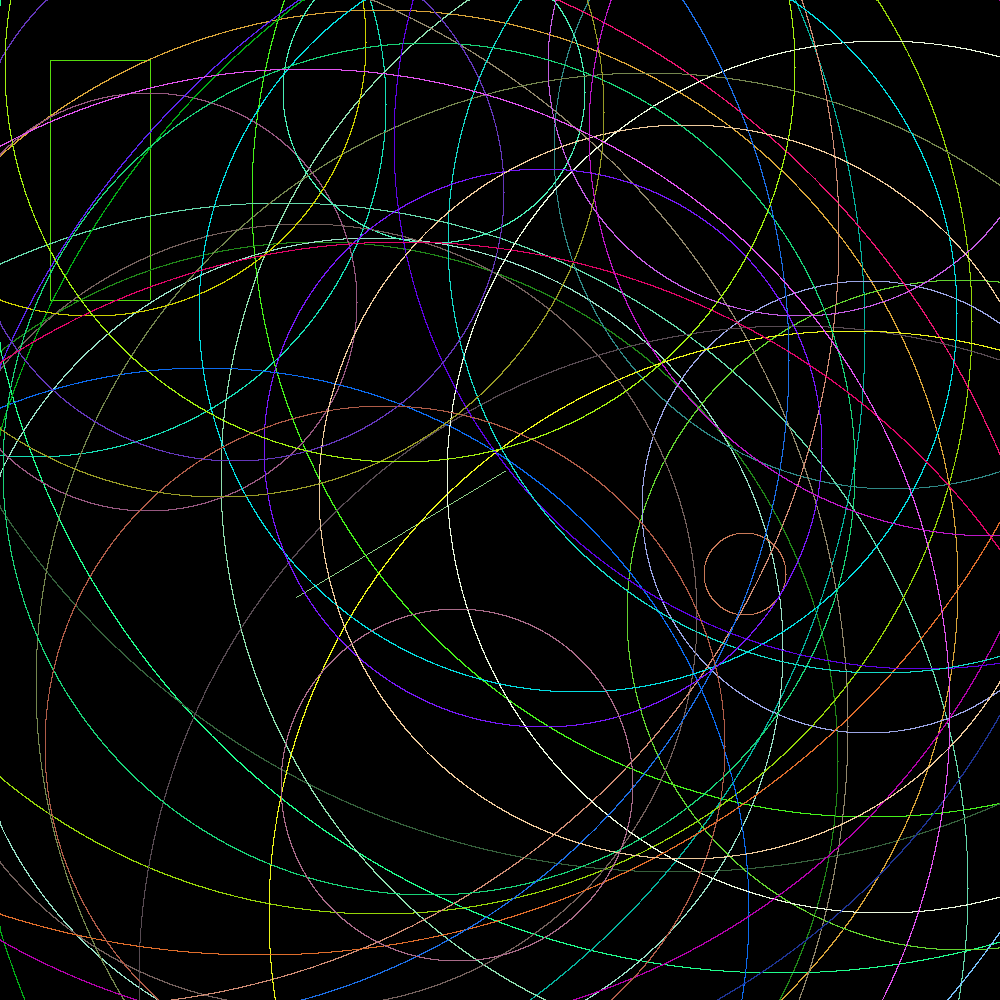
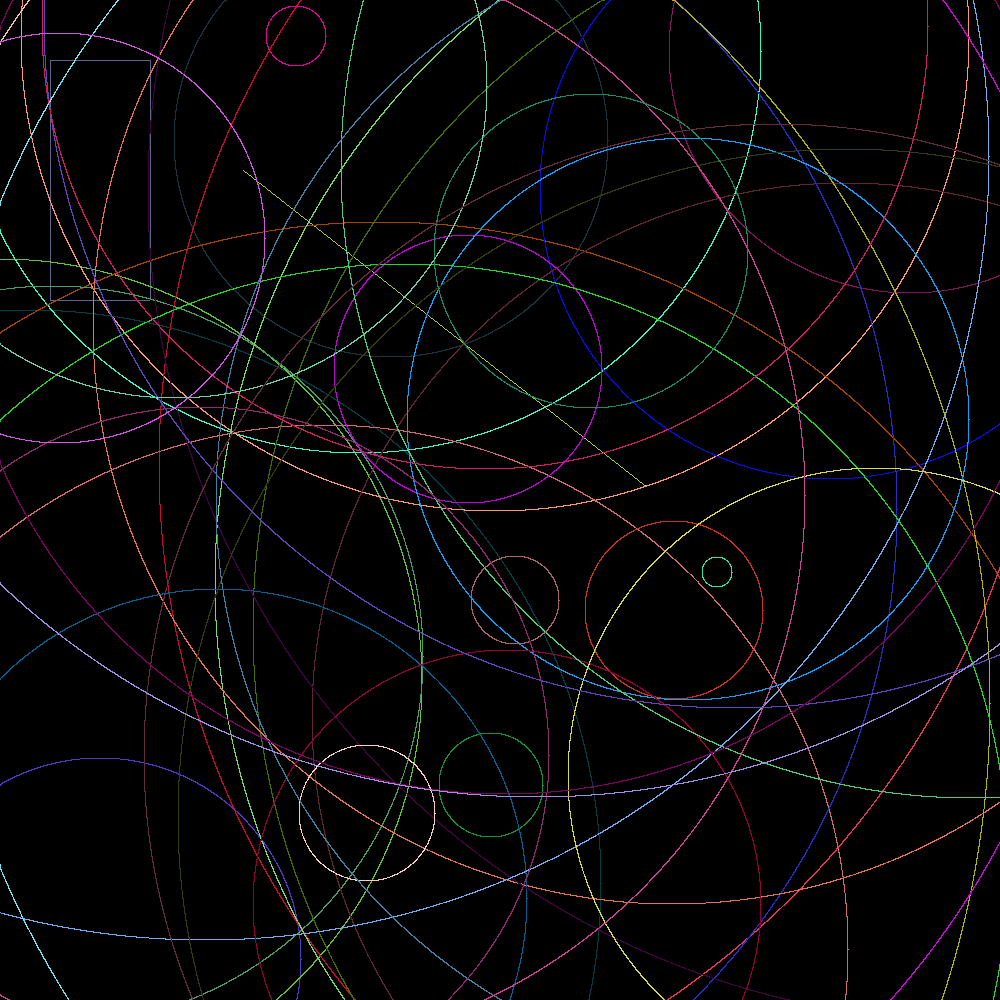
clean rec

diff --git a/geometrical_shapes/Rectangle.java b/geometrical_shapes/Rectangle.java
@@ -13,9 +13,7 @@ public class Rectangle implements Drawable {
     public void draw(Displayable d){
         Point bdya = new Point(this.Rec1.x, this.Rec2.y);
         Point tania =new Point(this.Rec2.x, this.Rec1.y);
-        Point talt = new Point(bdya.x, this.Rec2.y);
-        Point rb3a = new Point(tania.x, this.Rec2.y);
-
+        
         Line line1 = new Line(this.Rec1, bdya,color);
         Line line2 = new Line(this.Rec1, tania,color);
         Line line3 = new Line(bdya, this.Rec2,color);

diff --git a/geometrical_shapes/Point.java b/geometrical_shapes/Point.java
@@ -1,6 +1,7 @@
 package geometrical_shapes;
 
 import java.awt.Color;
+import java.util.Random;
 
 public class Point implements Drawable{
     int x;
@@ -21,7 +22,10 @@ public class Point implements Drawable{
     }
 
 
-    
+     public static Point random(int maxX, int maxY) {
+        Random rand = new Random();
+        return new Point(rand.nextInt(maxX), rand.nextInt(maxY));
+    }
     public void draw(Displayable displayable){
 
     }

diff --git a/geometrical_shapes/Line.java b/geometrical_shapes/Line.java
@@ -18,7 +18,7 @@ public class Line implements Drawable {
         this.end = end;
         this.color = color;
     }
-
+  
     public Point getStart() {
         return this.start;
     }
@@ -26,7 +26,7 @@ public class Line implements Drawable {
     public Point getEnd() {
         return this.end;
     }
-
+  
     @Override
     public void draw(Displayable displayable) {
 
